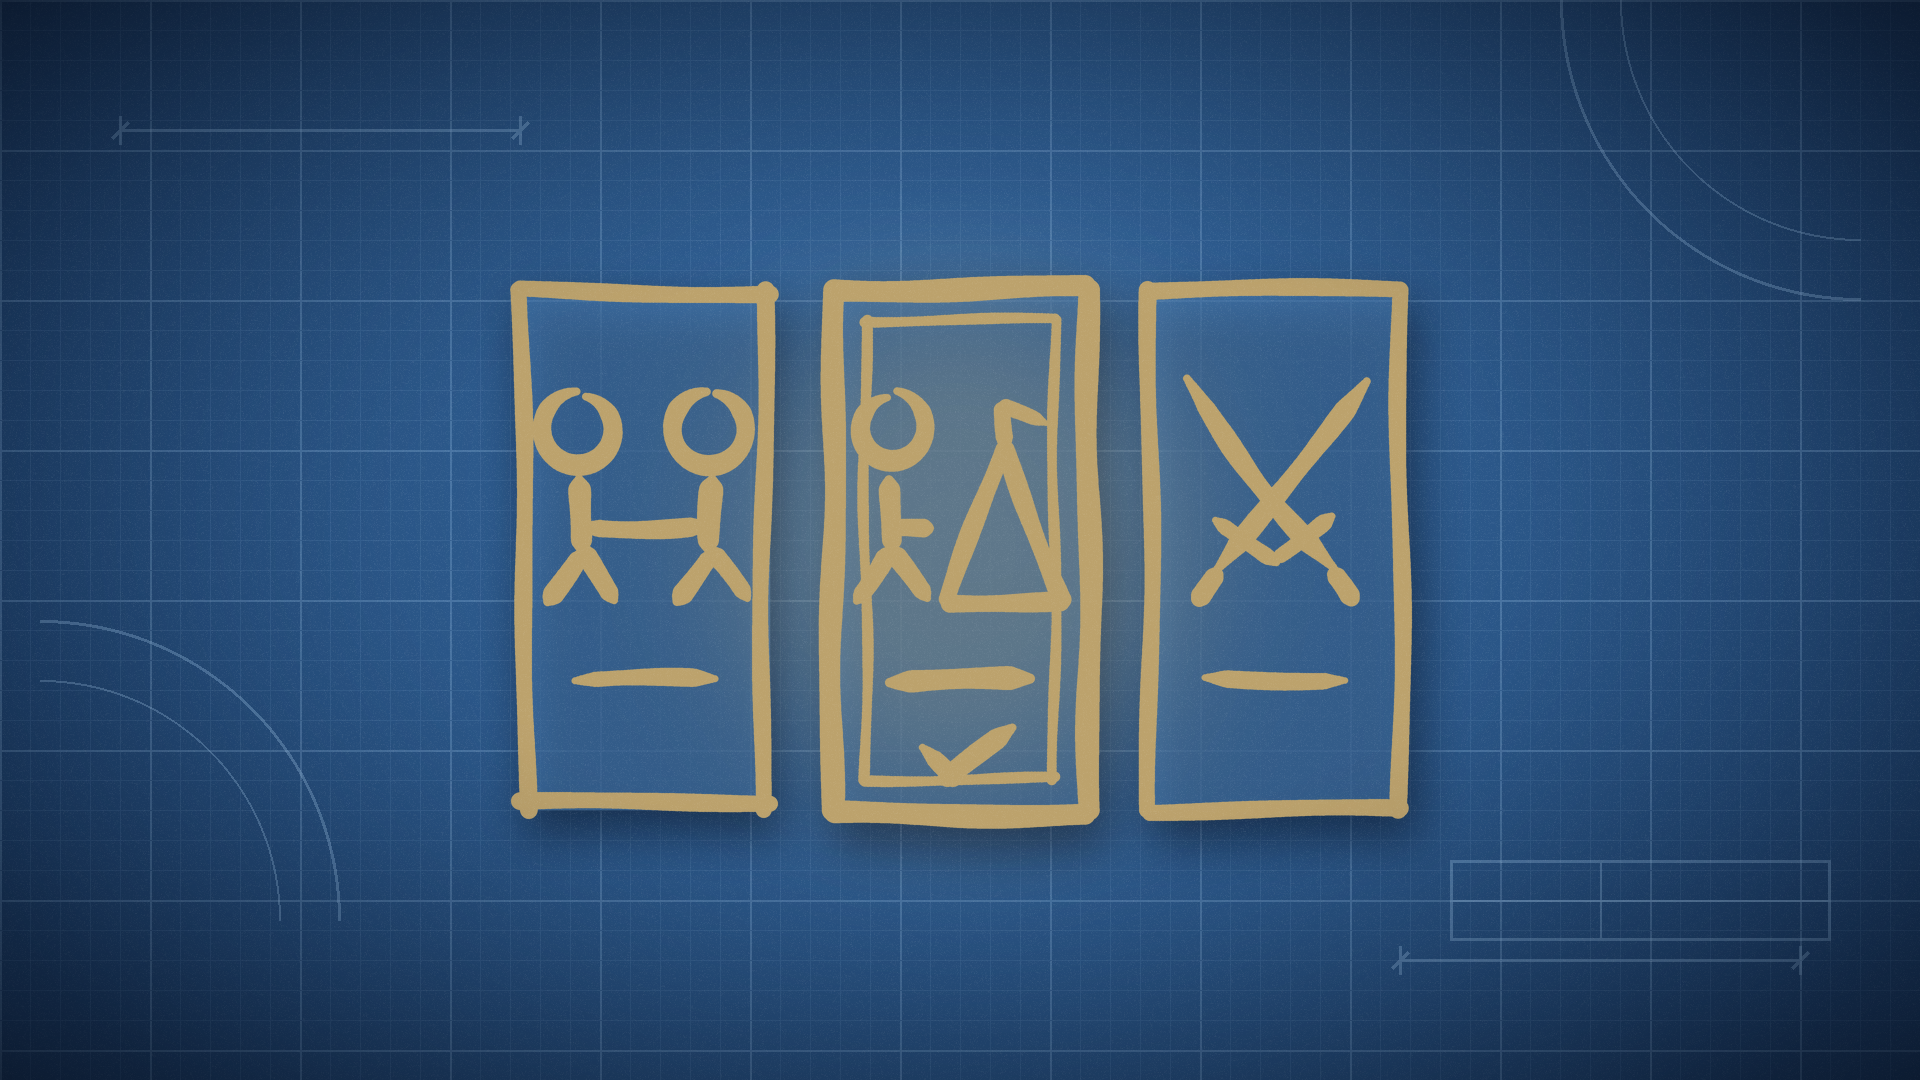
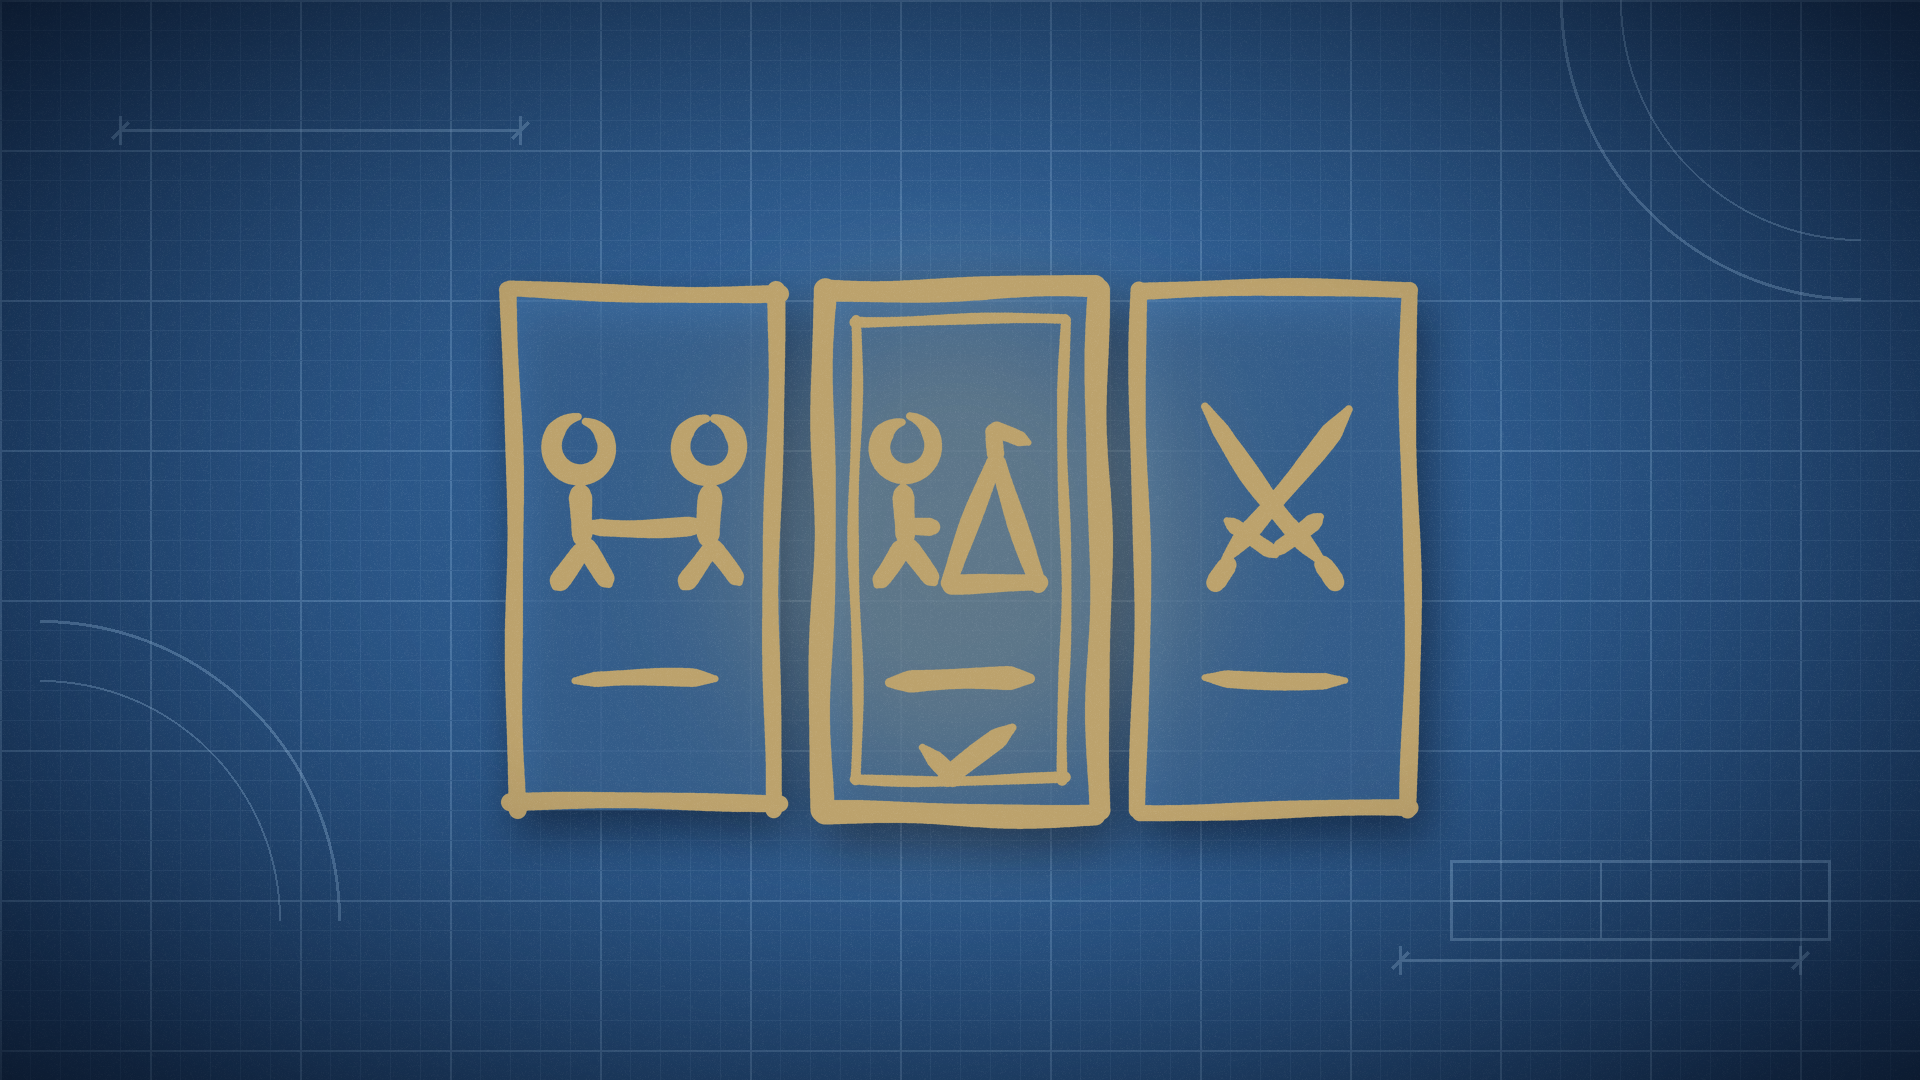
The cover's pictures clear their cards' borders

Changed region(s): [[0.25, 0.2444, 0.6875, 0.7639], [0.6875, 0.275, 0.75, 0.7639]]

diff --git a/Tools/make_cover.py b/Tools/make_cover.py
@@ -76,6 +76,23 @@ def background():
     return img
 
 
+class Scaled:
+    """A glyph's drawing calls, with the points pulled in towards (cx, cy) so a picture clears its card's borders."""
+
+    def __init__(self, g, cx, cy, k):
+        self.g, self.cx, self.cy, self.k = g, cx, cy, k
+
+    def _p(self, pt):
+        return (self.cx + (pt[0] - self.cx) * self.k, self.cy + (pt[1] - self.cy) * self.k)
+
+    def line(self, *pts, **kw):
+        self.g.line(*[self._p(p) for p in pts], **kw)
+
+    def circle(self, x, y, r, w):
+        px, py = self._p((x, y))
+        self.g.circle(px, py, r * self.k, w=w)
+
+
 def figure(g, x, y, w=2.8):
     """A settler standing with its feet at y, 20 high."""
     g.circle(x, y - 17, 3.6, w=w)
@@ -90,27 +107,28 @@ def drawing():
     g = mi.Glyph()
     top, bottom = 24, 76
     fill = []
-    for n, (left, right) in enumerate(((6, 31), (37.5, 62.5), (69, 94))):
+    for n, (left, right) in enumerate(((5, 32), (36.5, 63.5), (68, 95))):
         picked = n == 1
         cx = (left + right) / 2
         g.line((left, top), (right, top), (right, bottom), (left, bottom), (left, top), taper=False, w=3.2 if picked else 2.4)
         fill.append([(left, top), (right, top), (right, bottom), (left, bottom)])
+        pic = Scaled(g, cx, 47, 0.8)
         # Its picture: Co-op, two settlers side by side holding hands; PvE, a settler and a bandit camp; PvP, crossed swords
         if n == 0:
-            figure(g, cx - 6.5, 55)
-            figure(g, cx + 6.5, 55)
-            g.line((cx - 6.5, 47.5), (cx + 6.5, 47.5), w=2.6)
+            figure(pic, cx - 8, 55)
+            figure(pic, cx + 8, 55)
+            pic.line((cx - 8, 47.5), (cx + 8, 47.5), w=2.6)
         elif n == 1:
-            figure(g, cx - 7, 55)
-            g.line((cx - 7, 47.5), (cx - 3, 47.5), w=2.6)
-            g.line((cx - 1, 55), (cx + 4.5, 40), (cx + 10, 55), (cx - 1, 55), taper=False, w=2.6)
-            g.line((cx + 4.5, 40), (cx + 4.5, 36), (cx + 8.5, 37.5), w=2.2)
+            figure(pic, cx - 7, 55)
+            pic.line((cx - 7, 47.5), (cx - 3, 47.5), w=2.6)
+            pic.line((cx - 1, 55), (cx + 4.5, 40), (cx + 10, 55), (cx - 1, 55), taper=False, w=2.6)
+            pic.line((cx + 4.5, 40), (cx + 4.5, 36), (cx + 8.5, 37.5), w=2.2)
         else:
             for d in (-1, 1):
                 # A blade from the top corner down to its hilt, with the guard across and the grip past it
-                g.line((cx + 9 * d, 33), (cx - 6 * d, 52), w=2.8)
-                g.line((cx - 2.8 * d - 3 * d, 46.8), (cx - 2.8 * d + 3 * d, 51.2), w=2.4)
-                g.line((cx - 6 * d, 52), (cx - 8 * d, 55), w=3)
+                pic.line((cx + 9 * d, 33), (cx - 6 * d, 52), w=2.8)
+                pic.line((cx - 2.8 * d - 3 * d, 46.8), (cx - 2.8 * d + 3 * d, 51.2), w=2.4)
+                pic.line((cx - 6 * d, 52), (cx - 8 * d, 55), w=3)
         # The card's name, as a stroke
         g.line((cx - 7, 63), (cx + 7, 63), w=3.2 if picked else 2.4)
         if picked:
